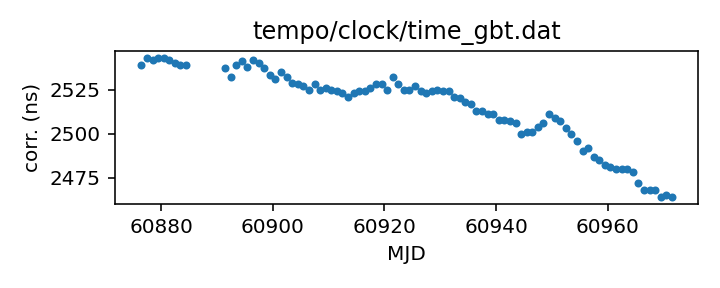
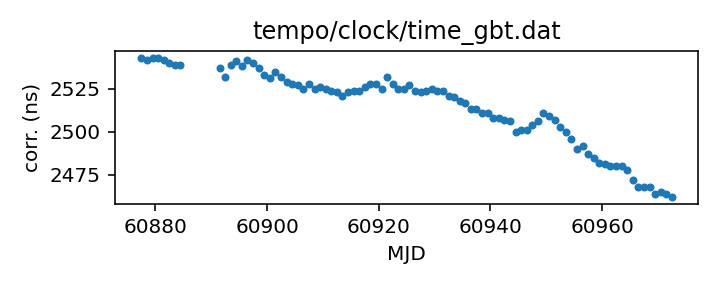
Routine gh-pages update from Github action Sat Oct 25 20:39:00 UTC 2025

diff --git a/status.md b/status.md
@@ -13,18 +13,18 @@ name of each clock file links to a page with more details.
 
 | Name | File | Corrections start | Corrections end | Last check date | Last check result 
 |:--- |:--- | --- | --- | --- |:--- 
-| [GPS to UTC](T2runtime/clock/gps2utc.clk.html) | `T2runtime/clock/gps2utc.clk` | 1993-01-01 MJD 48988.0 | 2025-09-26 MJD 60944.0 | 2025-10-24 | Unchanged 
-| [GPS to UTC (Combined Clock)](T2runtime/clock/gps2utc_cc.clk.html) | `T2runtime/clock/gps2utc_cc.clk` | 1993-01-01 MJD 48988.0 | 2025-09-26 MJD 60944.0 | 2025-10-24 | Unchanged 
-| [GPS to UTC (Corrected)](T2runtime/clock/gps2utc_c0p.clk.html) | `T2runtime/clock/gps2utc_c0p.clk` | 2010-12-29 MJD 55559.0 | 2025-09-26 MJD 60944.0 | 2025-10-24 | Unchanged 
-| [GBT](tempo/clock/time_gbt.dat.html) | `tempo/clock/time_gbt.dat` | 2000-12-31 MJD 51909.5 | 2025-10-23 MJD 60971.5 | 2025-10-24 | Updated 
-| [GBT (TEMPO2 converted from TEMPO)](T2runtime/clock/gbt2gps.clk.html) | `T2runtime/clock/gbt2gps.clk` | 2000-12-31 MJD 51909.5 | 2024-05-18 MJD 60448.5 | 2025-10-24 | **Validation failed** 
+| [GPS to UTC](T2runtime/clock/gps2utc.clk.html) | `T2runtime/clock/gps2utc.clk` | 1993-01-01 MJD 48988.0 | 2025-09-26 MJD 60944.0 | 2025-10-25 | Unchanged 
+| [GPS to UTC (Combined Clock)](T2runtime/clock/gps2utc_cc.clk.html) | `T2runtime/clock/gps2utc_cc.clk` | 1993-01-01 MJD 48988.0 | 2025-09-26 MJD 60944.0 | 2025-10-25 | Unchanged 
+| [GPS to UTC (Corrected)](T2runtime/clock/gps2utc_c0p.clk.html) | `T2runtime/clock/gps2utc_c0p.clk` | 2010-12-29 MJD 55559.0 | 2025-09-26 MJD 60944.0 | 2025-10-25 | Unchanged 
+| [GBT](tempo/clock/time_gbt.dat.html) | `tempo/clock/time_gbt.dat` | 2000-12-31 MJD 51909.5 | 2025-10-24 MJD 60972.5 | 2025-10-25 | Updated 
+| [GBT (TEMPO2 converted from TEMPO)](T2runtime/clock/gbt2gps.clk.html) | `T2runtime/clock/gbt2gps.clk` | 2000-12-31 MJD 51909.5 | 2024-05-18 MJD 60448.5 | 2025-10-25 | **Validation failed** 
 | [Jodrell Bank](T2runtime/clock/jb2gps.clk.html) | `T2runtime/clock/jb2gps.clk` | 2006-10-13 MJD 54021.4 | 2025-10-08 MJD 60956.0 | 2025-10-20 | Unchanged 
 | [Jodrell Bank Roach](T2runtime/clock/jbroach2jb.clk.html) | `T2runtime/clock/jbroach2jb.clk` | 2006-10-13 MJD 54021.4 | 2018-03-20 MJD 58197.6 | 2025-10-20 | Unchanged 
 | [Jodrell Bank DFB](T2runtime/clock/jbdfb2jb.clk.html) | `T2runtime/clock/jbdfb2jb.clk` | 2006-10-13 MJD 54021.4 | 2021-02-22 MJD 59268.0 | 2025-10-20 | Unchanged 
 | [Meerkat (observatory)](T2runtime/clock/mk2utc_observatory.clk.html) | `T2runtime/clock/mk2utc_observatory.clk` | 2019-01-01 MJD 58484.0 | 2025-10-02 MJD 60951.0 | 2025-10-20 | Unchanged 
-| [Leap seconds](tempo/clock/leap.sec.html) | `tempo/clock/leap.sec` | 1972-07-01 MJD 41499.0 | 2017-01-01 MJD 57754.0 | 2025-10-24 | Unchanged 
-| [UT1 table](tempo/clock/ut1.dat.html) | `tempo/clock/ut1.dat` | 1973-01-02 MJD 41684.0 | 2026-10-31 MJD 61344.0 | 2025-10-24 | Unchanged 
-| [UT1 table](T2runtime/clock/ut1.dat.html) | `T2runtime/clock/ut1.dat` | 1973-01-02 MJD 41684.0 | 2026-10-31 MJD 61344.0 | 2025-10-24 | Unchanged 
+| [Leap seconds](tempo/clock/leap.sec.html) | `tempo/clock/leap.sec` | 1972-07-01 MJD 41499.0 | 2017-01-01 MJD 57754.0 | 2025-10-25 | Unchanged 
+| [UT1 table](tempo/clock/ut1.dat.html) | `tempo/clock/ut1.dat` | 1973-01-02 MJD 41684.0 | 2026-10-31 MJD 61344.0 | 2025-10-25 | Unchanged 
+| [UT1 table](T2runtime/clock/ut1.dat.html) | `T2runtime/clock/ut1.dat` | 1973-01-02 MJD 41684.0 | 2026-10-31 MJD 61344.0 | 2025-10-25 | Unchanged 
 
 
 

diff --git a/T2runtime/clock/gbt2gps.clk.md b/T2runtime/clock/gbt2gps.clk.md
@@ -25,12 +25,11 @@ If questions arise about the conversion, contact Anne Archibald
 | Clock file start | 2000-12-31 MJD 51909.5 |
 | Clock file end | 2024-05-18 MJD 60448.5 |
 | Update interval (days) | 1 |
-| Last update attempt | 2025-10-24 |
+| Last update attempt | 2025-10-25 |
 | Last update result | Validation failed |
 
 Log entries from the last few update attempts:
 ```
-2025-10-15 20:42:00.239 - Validation failed: New version of T2runtime/clock/gbt2gps.clk MJDs differ from old version where they overlap in 8407 places
 2025-10-16 20:40:28.815 - Validation failed: New version of T2runtime/clock/gbt2gps.clk MJDs differ from old version where they overlap in 8407 places
 2025-10-17 20:39:52.751 - Validation failed: New version of T2runtime/clock/gbt2gps.clk MJDs differ from old version where they overlap in 8407 places
 2025-10-18 20:36:47.257 - Validation failed: New version of T2runtime/clock/gbt2gps.clk MJDs differ from old version where they overlap in 8407 places
@@ -40,6 +39,7 @@ Log entries from the last few update attempts:
 2025-10-22 20:41:06.143 - Validation failed: New version of T2runtime/clock/gbt2gps.clk MJDs differ from old version where they overlap in 8407 places
 2025-10-23 20:40:31.160 - Validation failed: New version of T2runtime/clock/gbt2gps.clk MJDs differ from old version where they overlap in 8407 places
 2025-10-24 20:41:30.859 - Validation failed: New version of T2runtime/clock/gbt2gps.clk MJDs differ from old version where they overlap in 8407 places
+2025-10-25 20:38:35.316 - Validation failed: New version of T2runtime/clock/gbt2gps.clk MJDs differ from old version where they overlap in 8407 places
 ```
 [Full log](https://raw.githubusercontent.com/ipta/pulsar-clock-corrections/main/log/T2runtime/clock/gbt2gps.clk.log)
 

diff --git a/tempo/clock/time_gbt.dat.md b/tempo/clock/time_gbt.dat.md
@@ -36,14 +36,13 @@ If questions arise, contact Ryan S. Lynch <rlynch@nrao.edu>.
 | Format | tempo |
 | Bogus last correction | False |
 | Clock file start | 2000-12-31 MJD 51909.5 |
-| Clock file end | 2025-10-23 MJD 60971.5 |
+| Clock file end | 2025-10-24 MJD 60972.5 |
 | Update interval (days) | 1 |
-| Last update attempt | 2025-10-24 |
+| Last update attempt | 2025-10-25 |
 | Last update result | Updated |
 
 Log entries from the last few update attempts:
 ```
-2025-10-15 20:42:00.172 - Updated
 2025-10-16 20:40:28.751 - Updated
 2025-10-17 20:39:52.679 - Updated
 2025-10-18 20:36:47.191 - Updated
@@ -53,12 +52,13 @@ Log entries from the last few update attempts:
 2025-10-22 20:41:06.078 - Updated
 2025-10-23 20:40:31.094 - Updated
 2025-10-24 20:41:30.792 - Updated
+2025-10-25 20:38:35.251 - Updated
 ```
 [Full log](https://raw.githubusercontent.com/ipta/pulsar-clock-corrections/main/log/tempo/clock/time_gbt.dat.log)
 
 Leading comments from clock file:
 
-     -2271.50       0.0        -0.486 1    32767-dec
+     -2271.50       0.0        -0.486 1    32765-dec
 
 
 

diff --git a/T2runtime/clock/gps2utc_c0p.clk.md b/T2runtime/clock/gps2utc_c0p.clk.md
@@ -30,12 +30,11 @@ about the BIPM's published corrections, contact <tai@bipm.org>.
 | Clock file start | 2010-12-29 MJD 55559.0 |
 | Clock file end | 2025-09-26 MJD 60944.0 |
 | Update interval (days) | 1 |
-| Last update attempt | 2025-10-24 |
+| Last update attempt | 2025-10-25 |
 | Last update result | Unchanged |
 
 Log entries from the last few update attempts:
 ```
-2025-10-15 20:41:59.716 - Unchanged
 2025-10-16 20:40:28.361 - Unchanged
 2025-10-17 20:39:52.319 - Unchanged
 2025-10-18 20:36:46.631 - Unchanged
@@ -45,6 +44,7 @@ Log entries from the last few update attempts:
 2025-10-22 20:41:05.745 - Unchanged
 2025-10-23 20:40:30.529 - Unchanged
 2025-10-24 20:41:29.832 - Unchanged
+2025-10-25 20:38:34.748 - Unchanged
 ```
 [Full log](https://raw.githubusercontent.com/ipta/pulsar-clock-corrections/main/log/T2runtime/clock/gps2utc_c0p.clk.log)
 

diff --git a/T2runtime/clock/gps2utc_cc.clk.md b/T2runtime/clock/gps2utc_cc.clk.md
@@ -29,12 +29,11 @@ about the BIPM's published corrections, contact <tai@bipm.org>.
 | Clock file start | 1993-01-01 MJD 48988.0 |
 | Clock file end | 2025-09-26 MJD 60944.0 |
 | Update interval (days) | 1 |
-| Last update attempt | 2025-10-24 |
+| Last update attempt | 2025-10-25 |
 | Last update result | Unchanged |
 
 Log entries from the last few update attempts:
 ```
-2025-10-15 20:41:59.708 - Unchanged
 2025-10-16 20:40:28.353 - Unchanged
 2025-10-17 20:39:52.309 - Unchanged
 2025-10-18 20:36:46.623 - Unchanged
@@ -44,6 +43,7 @@ Log entries from the last few update attempts:
 2025-10-22 20:41:05.737 - Unchanged
 2025-10-23 20:40:30.521 - Unchanged
 2025-10-24 20:41:29.824 - Unchanged
+2025-10-25 20:38:34.740 - Unchanged
 ```
 [Full log](https://raw.githubusercontent.com/ipta/pulsar-clock-corrections/main/log/T2runtime/clock/gps2utc_cc.clk.log)
 

diff --git a/T2runtime/clock/gps2utc.clk.md b/T2runtime/clock/gps2utc.clk.md
@@ -32,12 +32,11 @@ about the BIPM's published corrections, contact <tai@bipm.org>.
 | Clock file start | 1993-01-01 MJD 48988.0 |
 | Clock file end | 2025-09-26 MJD 60944.0 |
 | Update interval (days) | 1 |
-| Last update attempt | 2025-10-24 |
+| Last update attempt | 2025-10-25 |
 | Last update result | Unchanged |
 
 Log entries from the last few update attempts:
 ```
-2025-10-15 20:41:59.686 - Unchanged
 2025-10-16 20:40:28.330 - Unchanged
 2025-10-17 20:39:52.284 - Unchanged
 2025-10-18 20:36:46.601 - Unchanged
@@ -47,6 +46,7 @@ Log entries from the last few update attempts:
 2025-10-22 20:41:05.715 - Unchanged
 2025-10-23 20:40:30.500 - Unchanged
 2025-10-24 20:41:29.802 - Unchanged
+2025-10-25 20:38:34.719 - Unchanged
 ```
 [Full log](https://raw.githubusercontent.com/ipta/pulsar-clock-corrections/main/log/T2runtime/clock/gps2utc.clk.log)
 

diff --git a/tempo/clock/leap.sec.md b/tempo/clock/leap.sec.md
@@ -21,12 +21,11 @@ If there are any questions, contact Anne Archibald
 | File start | 1972-07-01 MJD 41499.0 |
 | File end | 2017-01-01 MJD 57754.0 |
 | Update interval (days) | 0 |
-| Last update attempt | 2025-10-24 |
+| Last update attempt | 2025-10-25 |
 | Last update result | Unchanged |
 
 Log entries from the last few update attempts:
 ```
-2025-10-15 20:42:00.266 - Unchanged
 2025-10-16 20:40:28.841 - Unchanged
 2025-10-17 20:39:52.777 - Unchanged
 2025-10-18 20:36:47.286 - Unchanged
@@ -36,5 +35,6 @@ Log entries from the last few update attempts:
 2025-10-22 20:41:06.169 - Unchanged
 2025-10-23 20:40:31.187 - Unchanged
 2025-10-24 20:41:30.885 - Unchanged
+2025-10-25 20:38:35.342 - Unchanged
 ```
 [Full log](https://raw.githubusercontent.com/ipta/pulsar-clock-corrections/main/log/tempo/clock/leap.sec.log)

diff --git a/T2runtime/clock/ut1.dat.md b/T2runtime/clock/ut1.dat.md
@@ -30,12 +30,11 @@ If there are any questions, contact Anne Archibald
 | File start | 1973-01-02 MJD 41684.0 |
 | File end | 2026-10-31 MJD 61344.0 |
 | Update interval (days) | 0 |
-| Last update attempt | 2025-10-24 |
+| Last update attempt | 2025-10-25 |
 | Last update result | Unchanged |
 
 Log entries from the last few update attempts:
 ```
-2025-10-15 20:42:08.535 - Unchanged
 2025-10-16 20:40:37.142 - Updated
 2025-10-17 20:40:01.326 - Unchanged
 2025-10-18 20:36:55.249 - Unchanged
@@ -45,5 +44,6 @@ Log entries from the last few update attempts:
 2025-10-22 20:41:13.667 - Unchanged
 2025-10-23 20:40:41.252 - Updated
 2025-10-24 20:41:42.761 - Unchanged
+2025-10-25 20:38:44.857 - Unchanged
 ```
 [Full log](https://raw.githubusercontent.com/ipta/pulsar-clock-corrections/main/log/T2runtime/clock/ut1.dat.log)

diff --git a/tempo/clock/ut1.dat.md b/tempo/clock/ut1.dat.md
@@ -30,12 +30,11 @@ If there are any questions, contact Anne Archibald
 | File start | 1973-01-02 MJD 41684.0 |
 | File end | 2026-10-31 MJD 61344.0 |
 | Update interval (days) | 0 |
-| Last update attempt | 2025-10-24 |
+| Last update attempt | 2025-10-25 |
 | Last update result | Unchanged |
 
 Log entries from the last few update attempts:
 ```
-2025-10-15 20:42:08.485 - Unchanged
 2025-10-16 20:40:37.092 - Updated
 2025-10-17 20:40:01.276 - Unchanged
 2025-10-18 20:36:55.200 - Unchanged
@@ -45,5 +44,6 @@ Log entries from the last few update attempts:
 2025-10-22 20:41:13.617 - Unchanged
 2025-10-23 20:40:41.203 - Updated
 2025-10-24 20:41:42.711 - Unchanged
+2025-10-25 20:38:44.808 - Unchanged
 ```
 [Full log](https://raw.githubusercontent.com/ipta/pulsar-clock-corrections/main/log/tempo/clock/ut1.dat.log)
